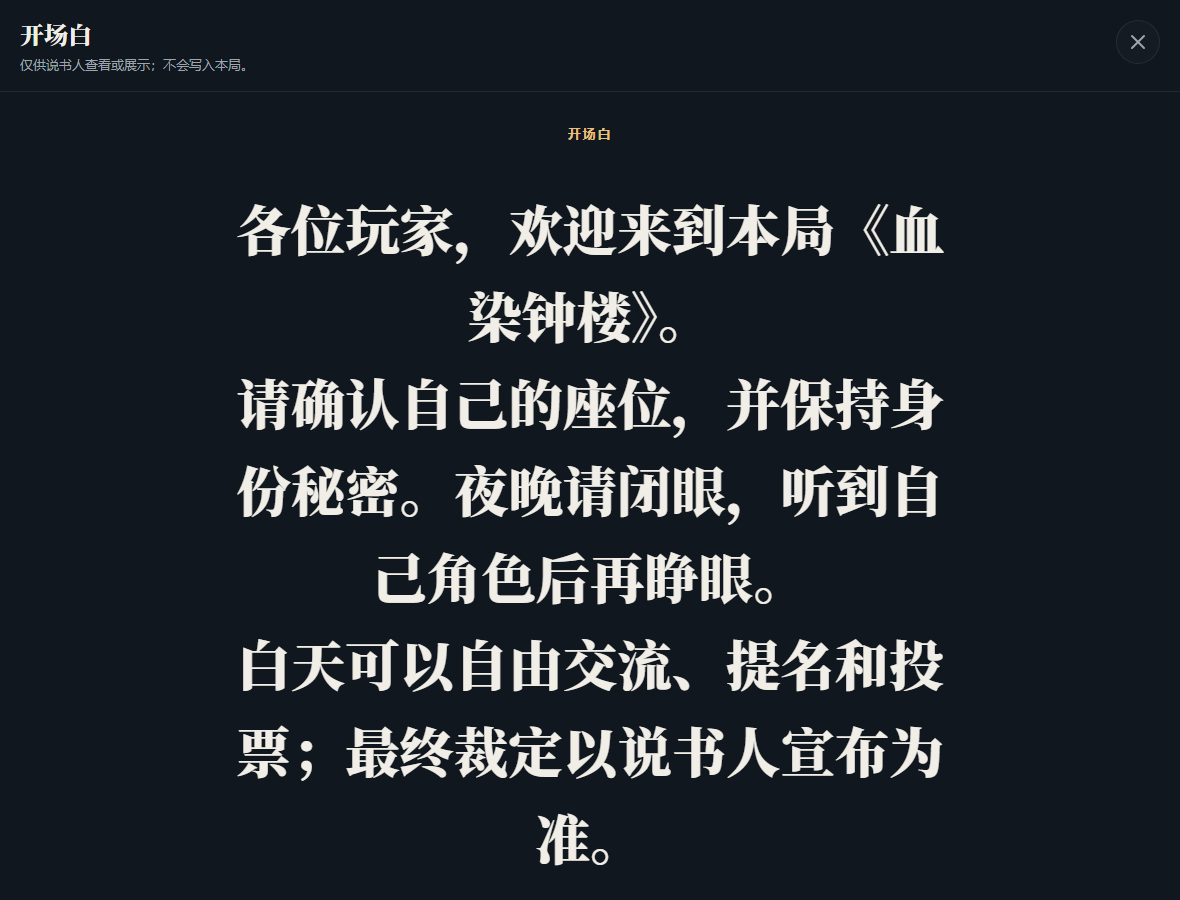
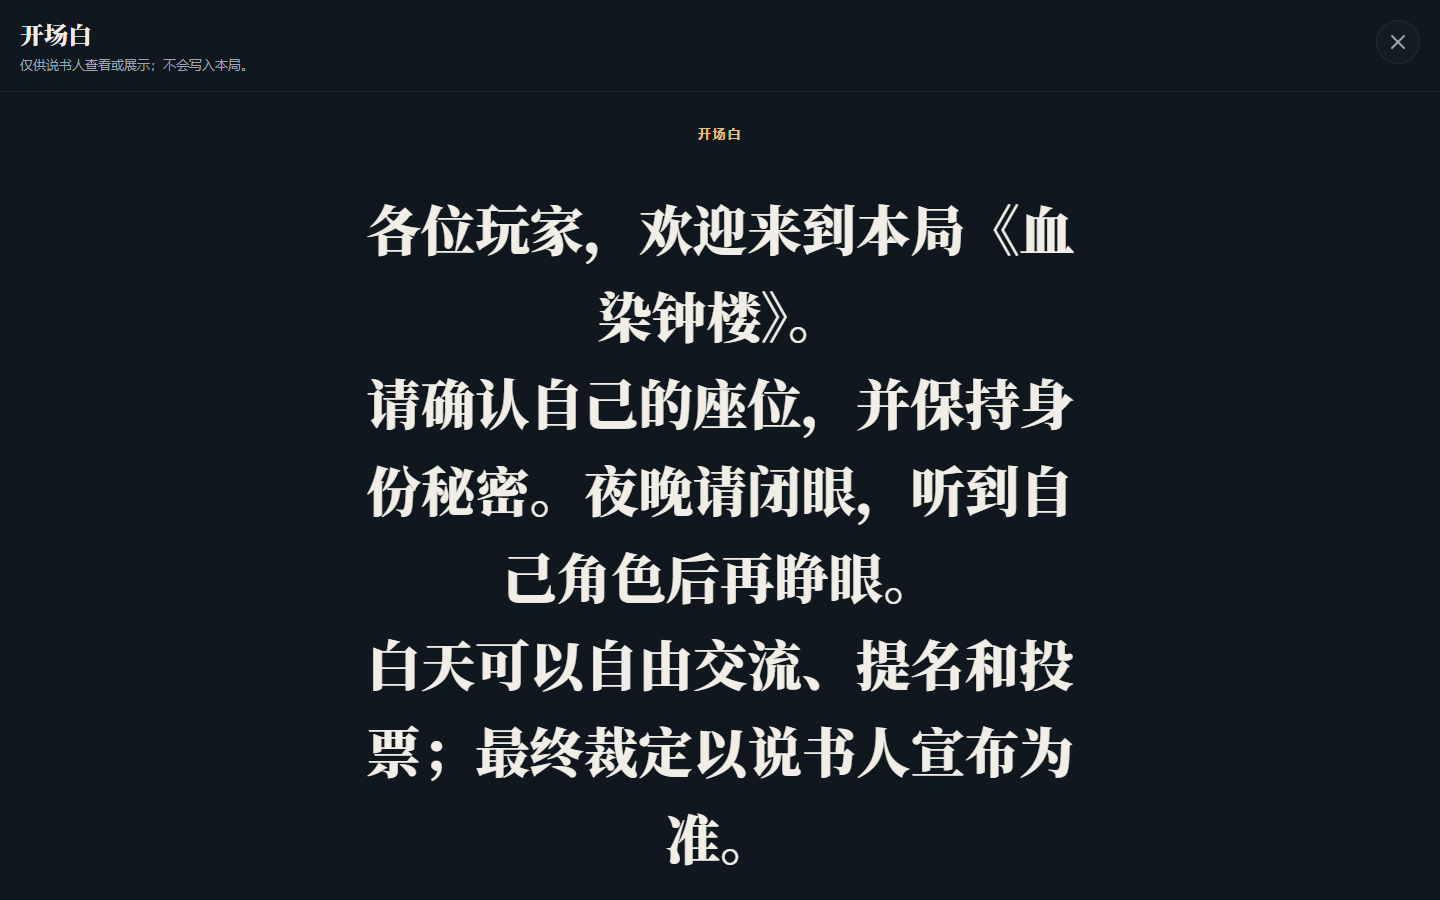
docs: refresh GitHub interface showcase

diff --git a/README.md b/README.md
@@ -8,15 +8,56 @@
 
 ## 界面预览
 
-| 本局总览 | AI 配板与调整 |
-| --- | --- |
-| ![本局总览：当前阶段、玩家状态与主持入口](docs/screenshots/01-dashboard.png) | ![AI 配板与调整：候选方案和角色组合](docs/screenshots/03-setup-advice.png) |
+### 本局总览
 
-| 夜间工作台 | 手机发身份 |
-| --- | --- |
-| ![夜间工作台：夜序、当前角色和说书人确认操作](docs/screenshots/05-night-workbench.png) | ![手机发身份：当前玩家和主要操作优先显示](docs/screenshots/13-mobile-identity-deal.png) |
+![本局总览：12 人角色图标、当前阶段、玩家状态与主持入口](docs/screenshots/01-dashboard.png)
 
-以上均由项目内的示例对局自动生成，不包含真实 API Key 或私人 VPS 信息。同一套功能可直接在手机、平板和电脑浏览器使用。
+### AI 配板与调整
+
+![AI 配板与调整：三套候选方案和角色组合](docs/screenshots/03-setup-advice.png)
+
+### 夜间工作台
+
+![夜间工作台：角色图标、夜序、目标选择和说书人确认操作](docs/screenshots/05-night-workbench.png)
+
+### 手机主持台
+
+<p align="center">
+  <img src="docs/screenshots/13-mobile-dashboard.png" width="390" alt="手机主持台：当前任务和带角色图标的玩家状态">
+</p>
+
+### 手机单人身份展示
+
+<p align="center">
+  <img src="docs/screenshots/14-mobile-identity-display.png" width="390" alt="手机单人身份展示：角色图标、名称、技能和领取按钮">
+</p>
+
+<details>
+<summary><strong>展开查看完整界面图库</strong></summary>
+
+| 板子库 | 发身份 |
+| --- | --- |
+| ![板子库：选择和切换智能板子](docs/screenshots/02-script-library.png) | ![发身份：座位领取进度与单人展示入口](docs/screenshots/04-identity-deal.png) |
+
+| 白天投票 | 公聊倒计时 |
+| --- | --- |
+| ![白天投票：提名、举手与处决记录](docs/screenshots/06-day-vote.png) | ![公聊倒计时：大字时间显示](docs/screenshots/07-public-timer.png) |
+
+| AI 设置 | 开场白展示 |
+| --- | --- |
+| ![AI 设置：本机配置与连通检查](docs/screenshots/08-ai-settings.png) | ![开场白：适合面对玩家的大字展示](docs/screenshots/09-opening-display.png) |
+
+| 玩家详情 | 本局日记 |
+| --- | --- |
+| ![玩家详情：角色状态和相关记录](docs/screenshots/10-player-detail.png) | ![本局日记：按时间查看主持记录](docs/screenshots/11-journal.png) |
+
+| 历史复盘 | 手机收尾 |
+| --- | --- |
+| ![历史复盘：胜负、时间线和复盘信息](docs/screenshots/12-review.png) | ![手机收尾：保存本局和进入复盘](docs/screenshots/15-mobile-game-end.png) |
+
+</details>
+
+以上均由项目内的 12 人示例对局自动生成，不包含真实 API Key 或私人 VPS 信息。同一套功能可直接在手机、平板和电脑浏览器使用。截图中的角色图标由维护者在本机按素材清单下载后生成；角色原图不随 Git 仓库发布，来源与权利说明见 [THIRD_PARTY_NOTICES.md](THIRD_PARTY_NOTICES.md)。
 
 根据个人理解制作的，AI血染钟楼说书人辅助工具，因为本人线下组局常常遇到这种问题，1.配板需要说书人非常熟悉技能，角色，有理解，才能配出比较好玩的板子，耗时长。2.技能结算，夜间处理长。3.投票记录麻烦。4.发送玩家身份太过古法，不够方便。5.全局日志需要手动记录。6.复盘评分复杂等问题。
 当前内置 117 个智能板子。这里的“智能板子”不是一个 AI 模型，而是整理好的剧本知识包：里面有角色池、角色技能、首夜/其他夜夜序、7—15 人配板模板、人数规则和高风险提醒。AI 只是读取这些项目内资料，提供配板排序或夜间结果草稿；它不等于官方规则引擎，社区和自定义角色按项目中保存的角色说明使用。

diff --git a/dev-docs/HUMAN_CHANGELOG.md b/dev-docs/HUMAN_CHANGELOG.md
@@ -27,6 +27,27 @@
 - 生产包仍提示主 JavaScript 文件偏大，本轮没有做代码分包；不影响功能，但首次加载性能仍有优化空间。
 - 自动验收使用 Chromium 模拟尺寸，正式发布前仍建议用真实 Android 与 iPhone/iPad 各走一遍主流程。
 
+## 2026-08-27 - GitHub 首页截图重拍
+
+### 给非开发者看的交付说明
+- 本轮属于项目展示优化，没有修改游戏规则、角色技能、夜间结算或 AI 权限。
+- GitHub 首页不再把桌面截图压成两列小图；本局总览、AI 配板和夜间工作台改为全宽展示。
+- 重新生成 12 人示例局截图，玩家卡、夜间当前角色和手机身份页都能看到角色图标。
+- 新增手机主持台和单人身份展示，并把其余界面收进可展开的完整图库，首页更清楚但内容没有减少。
+
+### Before / After
+- Before：桌面截图被缩到半栏，字和按钮偏小；手机截图停在发身份列表，角色图标不明显，看起来像页面缺素材。
+- After：核心桌面页面按 1440px 宽度完整展示；手机同时展示带图标的玩家状态和大图身份卡。
+
+### 验证
+- 截图脚本会等待角色图片真正加载完成后再拍，缺图时直接失败，不再静默生成无图标截图。
+- 所有截图继续由项目示例数据自动生成，不包含 API Key 或私人 VPS 信息。
+- 角色原图仍被 `.gitignore` 排除，只提交生成后的项目界面截图。
+
+### 风险
+- 截图展示了角色视觉素材，但原始素材没有进入仓库；来源和权利边界继续以 `THIRD_PARTY_NOTICES.md` 为准。
+- GitHub 首页图片更多，首次打开会比以前多加载几张 PNG；非核心界面已折叠，降低首屏信息量。
+
 ## 2026-08-26 - 项目内六步新手教学
 
 ### 给非开发者看的交付说明
